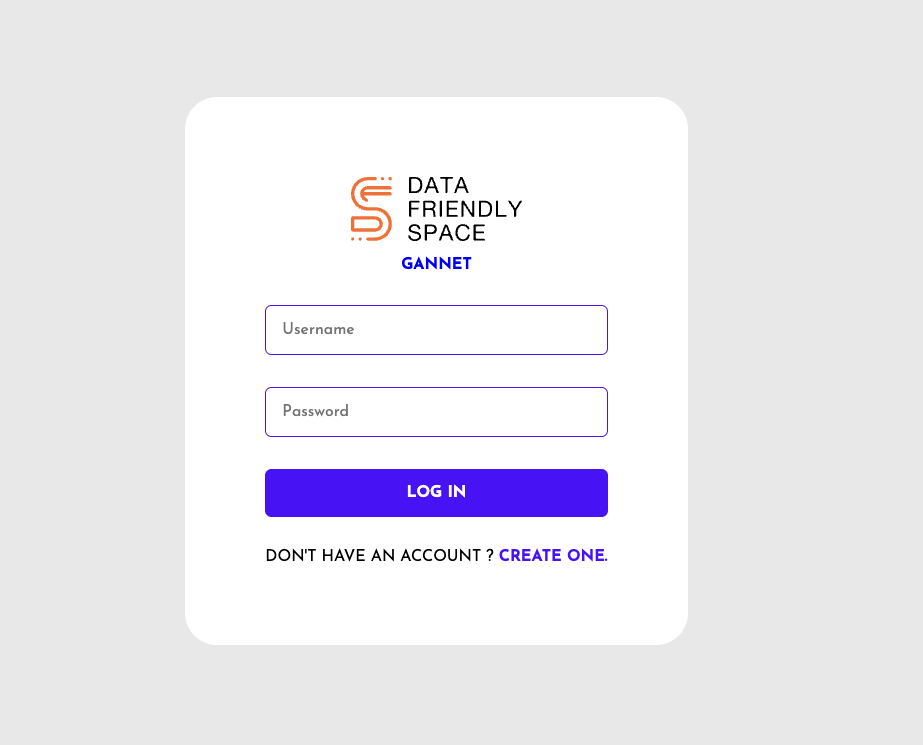
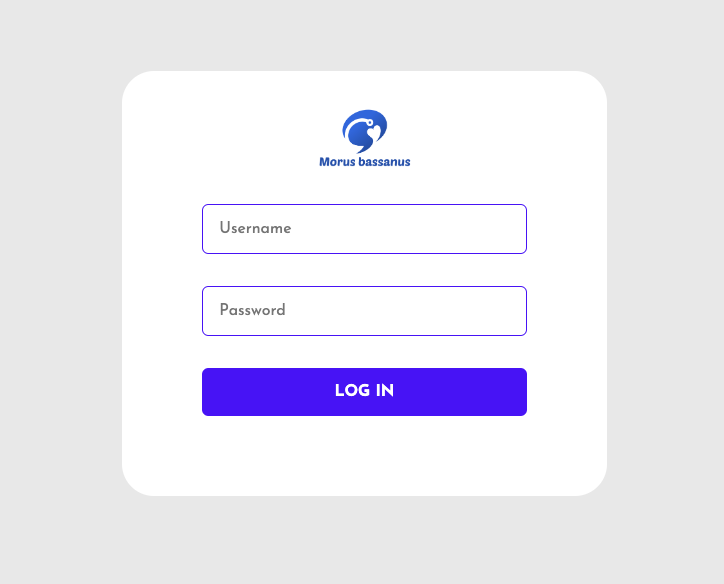
update readme file,update register and login pages

diff --git a/ui/client/src/pages/Login.jsx b/ui/client/src/pages/Login.jsx
@@ -1,12 +1,11 @@
 import React, { useState, useEffect } from "react";
 import axios from "axios";
 import styled from "styled-components";
-import { useNavigate } from "react-router-dom";
-import Logo from "../assets/dfs_logo.svg";
+import Logo from "../assets/morus.png";
 import { ToastContainer, toast } from "react-toastify";
 import "react-toastify/dist/ReactToastify.css";
 import { loginRoute, createAnalystAccount } from "../utils/APIRoutes";
-
+import { useNavigate, Link } from "react-router-dom";
 export default function Login() {
   const navigate = useNavigate();
   const [values, setValues] = useState({ username: "", password: "" });
@@ -76,7 +75,7 @@ export default function Login() {
         <form action="" onSubmit={(event) => handleSubmit(event)}>
           <div className="brand">
             <img src={Logo} alt="logo" />
-            <h4>Gannet</h4>
+          
           </div>
           <input
             type="text"
@@ -92,10 +91,12 @@ export default function Login() {
             onChange={(e) => handleChange(e)}
           />
           <button type="submit">Log In</button>
+          <span>
+             New user ? <Link to="/register">Register.</Link>
+          </span>
         </form>
-
       </FormContainer>
-
+   
       <ToastContainer />
     </>
   );

diff --git a/ui/client/src/components/Contacts.jsx b/ui/client/src/components/Contacts.jsx
@@ -1,6 +1,6 @@
 import React, { useState, useEffect } from "react";
 import styled from "styled-components";
-import Logo from "../assets/dfs_logo.svg";
+import Logo from "../assets/morus.png";
 import Plus from "../assets/plus.svg";
 import {  deleteMessage } from "../utils/APIRoutes";
 import axios from "axios";
@@ -58,13 +58,11 @@ export default function Contacts({ contacts, changeChat }) {
             <br />
 
             <div className="sidebarText">
-              Your Humanitarian companion : Instant Support and informed Decision-making
+            Your humanitarian companion: providing instant support and facilitating informed decision-making.
             </div>
             <div className="disclaimer">
               <h4><b>Disclaimer</b></h4>
-              The current database only contains information regarding floods and droughts in South Sudan for demo purposes only.
-
-              Please ask questions related to this topic
+              The existing database is designed exclusively for demonstration purposes and encompasses data solely pertaining to floods and droughts in South Sudan. Feel free to pose any questions relevant to this subject matter.
 
 
             </div>

diff --git a/ui/client/src/pages/Register.jsx b/ui/client/src/pages/Register.jsx
@@ -2,7 +2,7 @@ import React, { useState, useEffect } from "react";
 import axios from "axios";
 import styled from "styled-components";
 import { useNavigate, Link } from "react-router-dom";
-import Logo from "../assets/dfs_logo.svg";
+import Logo from "../assets/morus.png";
 import { ToastContainer, toast } from "react-toastify";
 import "react-toastify/dist/ReactToastify.css";
 import { registerRoute } from "../utils/APIRoutes";
@@ -90,7 +90,7 @@ export default function Register() {
         <form action="" onSubmit={(event) => handleSubmit(event)}>
         <div className="brand">
             <img src={Logo} alt="logo" />
-            <h4>Gannet</h4>
+            <h4>Morus</h4>
           </div>
           <input
             type="text"

diff --git a/ui/server/index.js b/ui/server/index.js
@@ -10,6 +10,17 @@ require("dotenv").config();
 app.use(cors());
 app.use(express.json());
 
+const uri = `mongodb://${process.env.MONGO_USER}:${process.env.MONGO_PASSWORD}@${process.env.MONGO_HOST}/${process.env.MONGO_DATABASE}`;
+
+// mongoose.connect(uri, { useNewUrlParser: true, useUnifiedTopology: true })
+//     .then(() => {
+//         console.log('Connected to MongoDB');
+//         // Continue with your application setup
+//     })
+//     .catch(error => {
+//         console.error('Error connecting to MongoDB:', error.message);
+//     });
+
 mongoose
   .connect(process.env.MONGO_URL, {
     useNewUrlParser: true,

diff --git a/ui/client/src/components/ChatContainer.jsx b/ui/client/src/components/ChatContainer.jsx
@@ -14,7 +14,6 @@ export default function ChatContainer({ currentChat, socket }) {
   const [resData, setResData] = useState([]);
   const [isLoading, setIsLoading] = useState(true);
 
-
   const apiUrl = 'http://52.3.250.51:9000/ask';
   const clearMessages = async () => {
     const data = await JSON.parse(
@@ -131,7 +130,7 @@ export default function ChatContainer({ currentChat, socket }) {
     <Container>
       <div className="chat-header">
         <div className="user-details">
-         <h3>GANNET</h3>
+         <h3>MORUS</h3>
         </div>
 
         <Logout />

diff --git a/ui/client/public/index.html b/ui/client/public/index.html
@@ -23,7 +23,7 @@
       work correctly both with client-side routing and a non-root public URL.
       Learn how to configure a non-root public URL by running `npm run build`.
     -->
-    <title>DFS Gannet</title>
+    <title>Morus-bassanus</title>
   </head>
   <body>
     <noscript>You need to enable JavaScript to run this app.</noscript>

diff --git a/README.md b/README.md
@@ -1,5 +1,6 @@
 # Morus-bassanus
-This repo is for deploying the light version of Morus-bassanus application
+
+This repo is for deploying the light version of Morus-bassanus providing instant support and facilitating informed decision-making for humanitarians.
 
 ## Development Setup
 - In this project we are using python3.11 and poetry as our env manager.
@@ -65,8 +66,6 @@ This repo is for deploying the light version of Morus-bassanus application
 ## Frontend 
 
 ![login page](./images/login.png)
-
-![home page](./images/home.png)
 
 ## Installation Guide
 
